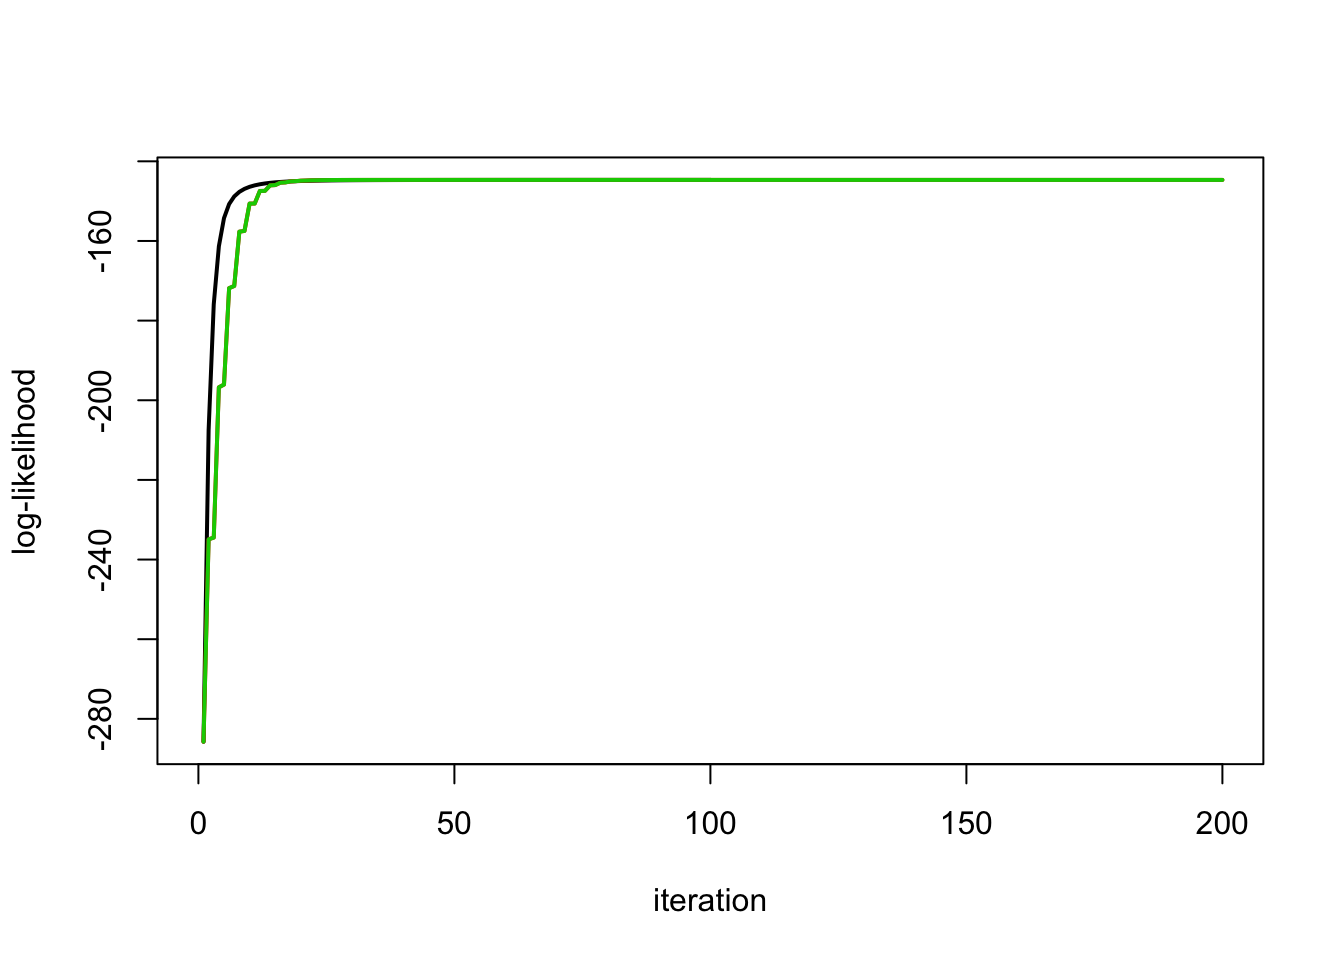
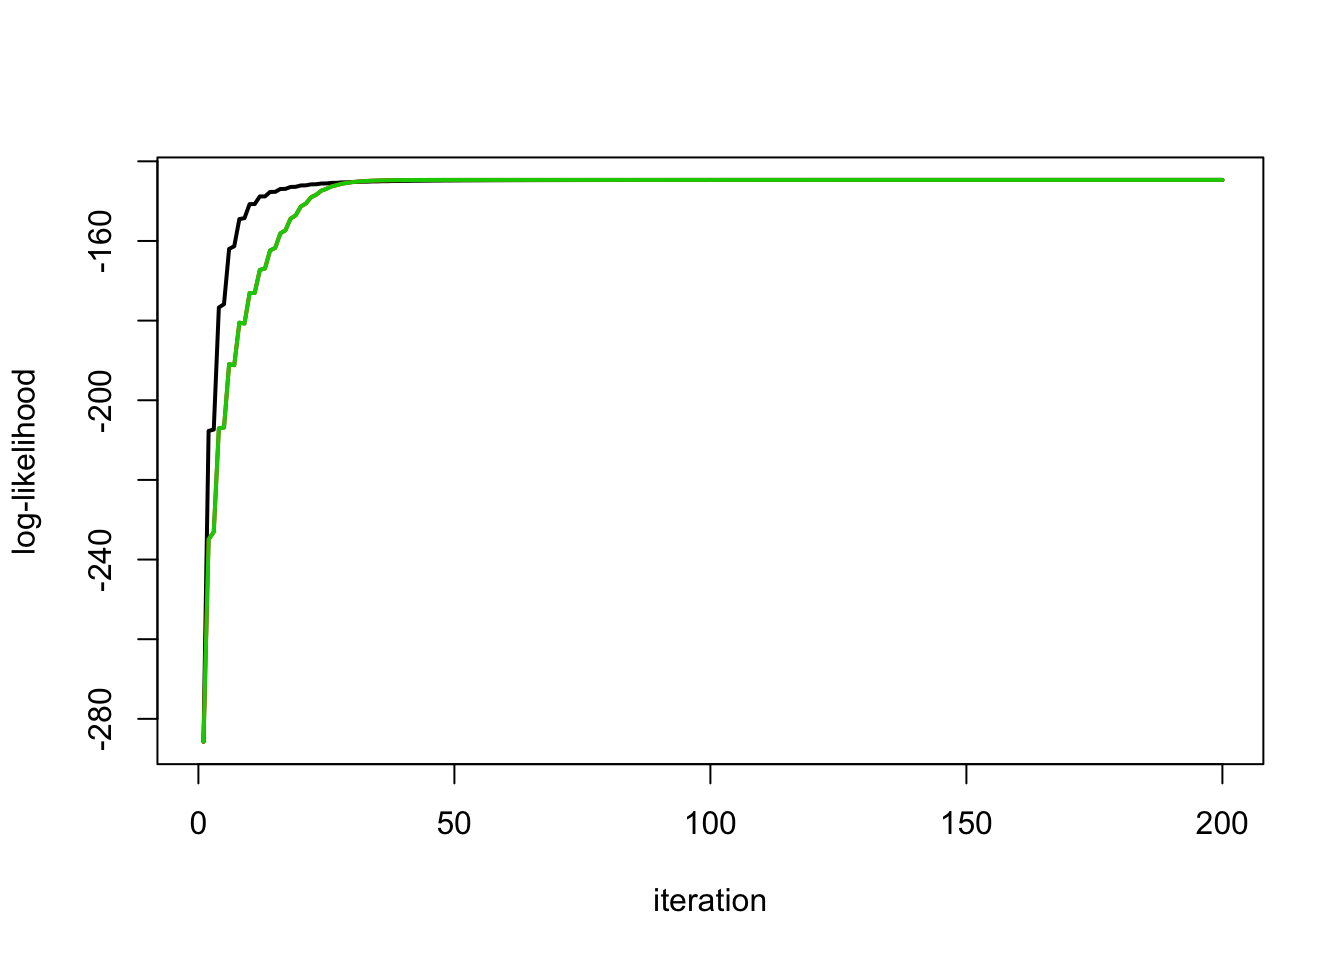
Build site.

Changed region(s): [[0.1562, 0.1875, 0.2812, 0.4688]]

diff --git a/docs/ridge_em_svd.html b/docs/ridge_em_svd.html
@@ -492,16 +492,16 @@ This reproducible <a href="http://rmarkdown.rstudio.com">R Markdown</a> analysis
 <div class="panel panel-default">
 <div class="panel-heading">
 <p class="panel-title">
-<a data-toggle="collapse" data-parent="#workflowr-checks" href="#strongRepositoryversionstrongahrefhttpsgithubcomstephens999misctree25cb42099a15dda346e86a7bfb19ea7fb619d724targetblank25cb420a"> <span class="glyphicon glyphicon-ok text-success" aria-hidden="true"></span> <strong>Repository version:</strong> <a href="https://github.com/stephens999/misc/tree/25cb42099a15dda346e86a7bfb19ea7fb619d724" target="_blank">25cb420</a> </a>
+<a data-toggle="collapse" data-parent="#workflowr-checks" href="#strongRepositoryversionstrongahrefhttpsgithubcomstephens999misctreeced143f6ab9866b856d4afa3e2804da58593a3eatargetblankced143fa"> <span class="glyphicon glyphicon-ok text-success" aria-hidden="true"></span> <strong>Repository version:</strong> <a href="https://github.com/stephens999/misc/tree/ced143f6ab9866b856d4afa3e2804da58593a3ea" target="_blank">ced143f</a> </a>
 </p>
 </div>
[2 lines of base64/hex data omitted]
 <div class="panel-body">
 <p>
 Great! You are using Git for version control. Tracking code development and connecting the code version to the results is critical for reproducibility.
 </p>
 <p>
-The results in this page were generated with repository version <a href="https://github.com/stephens999/misc/tree/25cb42099a15dda346e86a7bfb19ea7fb619d724" target="_blank">25cb420</a>. See the <em>Past versions</em> tab to see a history of the changes made to the R Markdown and HTML files.
+The results in this page were generated with repository version <a href="https://github.com/stephens999/misc/tree/ced143f6ab9866b856d4afa3e2804da58593a3ea" target="_blank">ced143f</a>. See the <em>Past versions</em> tab to see a history of the changes made to the R Markdown and HTML files.
 </p>
 <p>
 Note that you need to be careful to ensure that all relevant files for the analysis have been committed to Git prior to generating the results (you can use <code>wflow_publish</code> or <code>wflow_git_commit</code>). workflowr only checks the R Markdown file, but you know if there are other scripts or data files that it depends on. Below is the status of the Git repository when the results were generated:
@@ -693,6 +693,40 @@ Message
 Rmd
 </td>
 <td>
+<a href="https://github.com/stephens999/misc/blob/ced143f6ab9866b856d4afa3e2804da58593a3ea/analysis/ridge_em_svd.Rmd" target="_blank">ced143f</a>
+</td>
+<td>
+Matthew Stephens
+</td>
+<td>
+2020-06-26
+</td>
+<td>
+workflowr::wflow_publish(“ridge_em_svd.Rmd”)
+</td>
+</tr>
+<tr>
+<td>
+html
+</td>
+<td>
+<a href="https://rawcdn.githack.com/stephens999/misc/29360cf8f3ffaaa5ac4cc81c1ac9cbbba6a18399/docs/ridge_em_svd.html" target="_blank">29360cf</a>
+</td>
+<td>
+Matthew Stephens
+</td>
+<td>
+2020-06-26
+</td>
+<td>
+Build site.
+</td>
+</tr>
+<tr>
+<td>
+Rmd
+</td>
+<td>
 <a href="https://github.com/stephens999/misc/blob/25cb42099a15dda346e86a7bfb19ea7fb619d724/analysis/ridge_em_svd.Rmd" target="_blank">25cb420</a>
 </td>
 <td>
@@ -721,19 +755,23 @@ workflowr::wflow_publish(“ridge_em_svd.Rmd”)
 <p>Here is the EM for the simple parameterization as above:</p>
 <pre class="r"><code>ridge_indep_em1 = function(y, d2, s2, sb2, niter=10){
   k = length(y)
-  loglik = rep(0,niter)
+  loglik = rep(0,2*niter)
+  
   for(i in 1:niter){
     
     prior_var = sb2*d2
     data_var = s2
     
-    loglik[i] = sum(dnorm(y,mean=0,sd = sqrt(prior_var + data_var),log=TRUE))
+    loglik[2*i-1] = sum(dnorm(y,mean=0,sd = sqrt(sb2*d2 + s2),log=TRUE))
     
+    # update sb2
     post_var = 1/((1/prior_var) + (1/data_var)) #posterior variance of theta
     post_mean =  post_var * (1/data_var) * y # posterior mean of theta
-    
     sb2 = mean((post_mean^2 + post_var)/d2)
      
+    loglik[2*i] = sum(dnorm(y,mean=0,sd = sqrt(sb2*d2 + s2),log=TRUE))
+    
+    # update s2
     r = y - post_mean # residuals
     s2 = mean(r^2 + post_var)
   }
@@ -743,7 +781,7 @@ workflowr::wflow_publish(“ridge_em_svd.Rmd”)
 <div id="scaled-parameterization" class="section level2">
 <h2>Scaled parameterization</h2>
 <p>Here we take the <span class="math inline">\(s_b\)</span> out of the prior on <span class="math inline">\(\theta_j\)</span>: <span class="math display">\[y_j \sim N(s_b \theta_j, s^2)\]</span> <span class="math display">\[\theta_j \sim N(0,d_j^2).\]</span></p>
-<pre class="r"><code>ridge_indep_em2 = function(y, d2, s2, sb2, niter=10){
+<pre class="r"><code>ridge_indep_em2 = function(y, d2, s2, sb2, niter=10, recompute_between_updates = FALSE){
   k = length(y)
   loglik = rep(0,2*niter)
   for(i in 1:niter){
@@ -759,10 +797,12 @@ workflowr::wflow_publish(“ridge_em_svd.Rmd”)
     
     loglik[2*i] = sum(dnorm(y,mean=0,sd = sqrt(sb2*d2 + s2),log=TRUE))
     
-    prior_var = d2 # prior variance for theta
-    data_var = s2/sb2 # variance of y/sb, which has mean theta
-    post_var = 1/((1/prior_var) + (1/data_var)) #posterior variance of theta
-    post_mean =  post_var * (1/data_var) * (y/sqrt(sb2)) # posterior mean of theta
+    if(recompute_between_updates){
+      prior_var = d2 # prior variance for theta
+      data_var = s2/sb2 # variance of y/sb, which has mean theta
+      post_var = 1/((1/prior_var) + (1/data_var)) #posterior variance of theta
+      post_mean =  post_var * (1/data_var) * (y/sqrt(sb2)) # posterior mean of theta
+    }
     
     r = y - sqrt(sb2) * post_mean # residuals
     s2 = mean(r^2 + sb2 * post_var)
@@ -774,7 +814,7 @@ workflowr::wflow_publish(“ridge_em_svd.Rmd”)
 <div id="scaled-parameterization-part-ii" class="section level2">
 <h2>Scaled parameterization, part II</h2>
 <p>We could also do the same with <span class="math inline">\(d_j\)</span> resulting in this variation: <span class="math display">\[y_j \sim N(s_b d_j \theta_j, s^2)\]</span> <span class="math display">\[\theta_j \sim N(0,1).\]</span></p>
-<pre class="r"><code>ridge_indep_em2b = function(y, d2, s2, sb2, niter=10){
+<pre class="r"><code>ridge_indep_em2b = function(y, d2, s2, sb2, niter=10, recompute_between_updates = FALSE){
   k = length(y)
   loglik = rep(0,2*niter)
   for(i in 1:niter){
@@ -790,10 +830,12 @@ workflowr::wflow_publish(“ridge_em_svd.Rmd”)
     
     loglik[2*i] = sum(dnorm(y,mean=0,sd = sqrt(sb2*d2 + s2),log=TRUE))
     
-    prior_var = 1 # prior variance for theta
-    data_var = s2/(sb2*d2) # variance of y/(sb d), which has mean theta
-    post_var = 1/((1/prior_var) + (1/data_var)) #posterior variance of theta
-    post_mean =  post_var * (1/data_var) * y/(sqrt(sb2)*sqrt(d2)) # posterior mean of theta
+    if(recompute_between_updates){
+      prior_var = 1 # prior variance for theta
+      data_var = s2/(sb2*d2) # variance of y/(sb d), which has mean theta
+      post_var = 1/((1/prior_var) + (1/data_var)) #posterior variance of theta
+      post_mean =  post_var * (1/data_var) * y/(sqrt(sb2)*sqrt(d2)) # posterior mean of theta
+    }
     
     r = y - sqrt(d2) * sqrt(sb2) * post_mean # residuals
     s2 = mean(r^2 + sb2 * d2 * post_var)
@@ -815,6 +857,43 @@ y = X %*% btrue + sd*rnorm(n)
 
 plot(X %*% btrue, y)</code></pre>
 <p><img src="figure/ridge_em_svd.Rmd/unnamed-chunk-4-1.png" width="672" style="display: block; margin: auto;" /></p>
+<p>
+<button type="button" class="btn btn-default btn-xs btn-workflowr btn-workflowr-fig" data-toggle="collapse" data-target="#fig-unnamed-chunk-4-1">
+Past versions of unnamed-chunk-4-1.png
+</button>
+</p>
+<div id="fig-unnamed-chunk-4-1" class="collapse">
+<div class="table-responsive">
+<table class="table table-condensed table-hover">
+<thead>
+<tr>
+<th>
+Version
+</th>
+<th>
+Author
+</th>
+<th>
+Date
+</th>
+</tr>
+</thead>
+<tbody>
+<tr>
+<td>
+<a href="https://github.com/stephens999/misc/blob/29360cf8f3ffaaa5ac4cc81c1ac9cbbba6a18399/docs/figure/ridge_em_svd.Rmd/unnamed-chunk-4-1.png" target="_blank">29360cf</a>
+</td>
+<td>
+Matthew Stephens
+</td>
+<td>
+2020-06-26
+</td>
+</tr>
+</tbody>
+</table>
+</div>
+</div>
 <pre class="r"><code>X.svd = svd(X)
 ytilde = drop(X.svd$u %*% y)
 yt.em1 = ridge_indep_em1(ytilde,X.svd$d^2,1,1,100)
@@ -843,6 +922,43 @@ plot_loglik = function(res){
 
 plot_loglik(list(yt.em1,yt.em2,yt.em2b))</code></pre>
 <p><img src="figure/ridge_em_svd.Rmd/unnamed-chunk-5-1.png" width="672" style="display: block; margin: auto;" /></p>
+<p>
+<button type="button" class="btn btn-default btn-xs btn-workflowr btn-workflowr-fig" data-toggle="collapse" data-target="#fig-unnamed-chunk-5-1">
+Past versions of unnamed-chunk-5-1.png
+</button>
+</p>
+<div id="fig-unnamed-chunk-5-1" class="collapse">
+<div class="table-responsive">
+<table class="table table-condensed table-hover">
+<thead>
+<tr>
+<th>
+Version
+</th>
+<th>
+Author
+</th>
+<th>
+Date
+</th>
+</tr>
+</thead>
+<tbody>
+<tr>
+<td>
+<a href="https://github.com/stephens999/misc/blob/29360cf8f3ffaaa5ac4cc81c1ac9cbbba6a18399/docs/figure/ridge_em_svd.Rmd/unnamed-chunk-5-1.png" target="_blank">29360cf</a>
+</td>
+<td>
+Matthew Stephens
+</td>
+<td>
+2020-06-26
+</td>
+</tr>
+</tbody>
+</table>
+</div>
+</div>
 </div>
 <div id="no-signal" class="section level2">
 <h2>No signal</h2>
@@ -859,6 +975,103 @@ yt.em2b = ridge_indep_em2b(ytilde,X.svd$d^2,1,1,100)
 
 plot_loglik(list(yt.em1,yt.em2,yt.em2b))</code></pre>
 <p><img src="figure/ridge_em_svd.Rmd/unnamed-chunk-6-1.png" width="672" style="display: block; margin: auto;" /></p>
+<p>
+<button type="button" class="btn btn-default btn-xs btn-workflowr btn-workflowr-fig" data-toggle="collapse" data-target="#fig-unnamed-chunk-6-1">
+Past versions of unnamed-chunk-6-1.png
+</button>
+</p>
+<div id="fig-unnamed-chunk-6-1" class="collapse">
+<div class="table-responsive">
+<table class="table table-condensed table-hover">
+<thead>
+<tr>
+<th>
+Version
+</th>
+<th>
+Author
+</th>
+<th>
+Date
+</th>
+</tr>
+</thead>
+<tbody>
+<tr>
+<td>
+<a href="https://github.com/stephens999/misc/blob/29360cf8f3ffaaa5ac4cc81c1ac9cbbba6a18399/docs/figure/ridge_em_svd.Rmd/unnamed-chunk-6-1.png" target="_blank">29360cf</a>
+</td>
+<td>
+Matthew Stephens
+</td>
+<td>
+2020-06-26
+</td>
+</tr>
+</tbody>
+</table>
+</div>
+</div>
+</div>
+<div id="trendfiltering-simulations" class="section level2">
+<h2>Trendfiltering Simulations</h2>
+<p>This is more challenging example (in that the design matrix is correlated)</p>
+<div id="high-signal" class="section level3">
+<h3>High Signal</h3>
+<pre class="r"><code>set.seed(100)
+sd = 1
+n = 100
+p = n
+X = matrix(0,nrow=n,ncol=n)
+for(i in 1:n){
+  X[i:n,i] = 1:(n-i+1)
+}
+btrue = rep(0,n)
+btrue[40] = 8
+btrue[41] = -8
+y = X %*% btrue + sd*rnorm(n)
+
+plot(y)
+lines(X %*% btrue)</code></pre>
+<p><img src="figure/ridge_em_svd.Rmd/unnamed-chunk-7-1.png" width="672" style="display: block; margin: auto;" /></p>
+<pre class="r"><code>X.svd = svd(X)
+ytilde = drop(X.svd$u %*% y)
+
+yt.em1 = ridge_indep_em1(ytilde,X.svd$d^2,1,1,100)
+yt.em2 = ridge_indep_em2(ytilde,X.svd$d^2,1,1,100)
+yt.em2b = ridge_indep_em2b(ytilde,X.svd$d^2,1,1,100)
+
+plot_loglik(list(yt.em1,yt.em2,yt.em2b))</code></pre>
+<p><img src="figure/ridge_em_svd.Rmd/unnamed-chunk-8-1.png" width="672" style="display: block; margin: auto;" /></p>
+</div>
+<div id="no-signal-case" class="section level3">
+<h3>No signal case</h3>
+<p>Try no signal case</p>
+<pre class="r"><code>sd = 1
+n = 100
+p = n
+X = matrix(0,nrow=n,ncol=n)
+for(i in 1:n){
+  X[i:n,i] = 1:(n-i+1)
+}
+btrue = rep(0,n)
+
+y = X %*% btrue + sd*rnorm(n)
+
+plot(y)
+lines(X %*% btrue)</code></pre>
+<p><img src="figure/ridge_em_svd.Rmd/unnamed-chunk-9-1.png" width="672" style="display: block; margin: auto;" /></p>
+<pre class="r"><code>X.svd = svd(X)
+ytilde = drop(X.svd$u %*% y)
+
+yt.em1 = ridge_indep_em1(ytilde,X.svd$d^2,1,1,100)
+yt.em2 = ridge_indep_em2(ytilde,X.svd$d^2,1,1,100)
+yt.em2b = ridge_indep_em2b(ytilde,X.svd$d^2,1,1,100)
+
+plot_loglik(list(yt.em1,yt.em2,yt.em2b))</code></pre>
+<p><img src="figure/ridge_em_svd.Rmd/unnamed-chunk-10-1.png" width="672" style="display: block; margin: auto;" /></p>
+<pre class="r"><code>plot_loglik(list(yt.em1,yt.em2))</code></pre>
+<p><img src="figure/ridge_em_svd.Rmd/unnamed-chunk-10-2.png" width="672" style="display: block; margin: auto;" /></p>
 <br>
 <p>
 <button type="button" class="btn btn-default btn-workflowr btn-workflowr-sessioninfo" data-toggle="collapse" data-target="#workflowr-sessioninfo" style="display: block;">
@@ -889,6 +1102,7 @@ loaded via a namespace (and not attached):
 [17] tools_3.6.0     stringr_1.4.0   glue_1.4.0      httpuv_1.5.2   
 [21] xfun_0.12       yaml_2.2.1      compiler_3.6.0  htmltools_0.4.0
 [25] knitr_1.28     </code></pre>
+</div>
 </div>
 </div>
 
